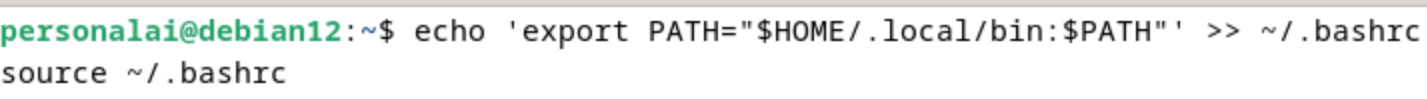
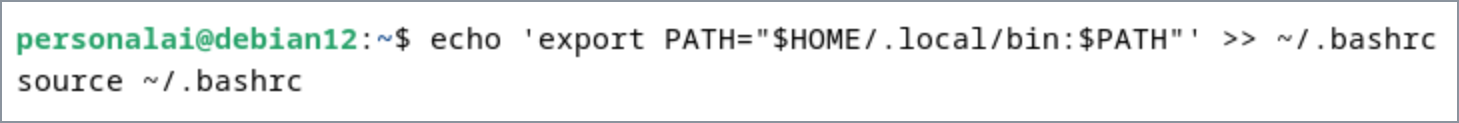
adjusted image sizes

Changed region(s): [[0.0, 0.0, 1.0, 1.0], [0.0, 0.5758, 0.2158, 0.8485]]

diff --git a/personal-ai-infrastructure/README.md b/personal-ai-infrastructure/README.md
@@ -13,7 +13,11 @@ This walkthrough covers:
 
 ## Environment
 
-![Debian 12 bookworm, confirmed via /etc/os-release](./images/System.png)
+<p align="center">
+  <img src="./images/System.png" alt="Debian 12 bookworm, confirmed via /etc/os-release" width="600">
+  <br>
+  <em>Debian 12 bookworm, confirmed via /etc/os-release</em>
+</p>
 
 Both environments run inside a Debian VM rather than directly on the host machine. The VM provides its own filesystem, users, and software environment.
 
@@ -65,7 +69,11 @@ Run:
 curl -fsSL https://claude.ai/install.sh | bash
 ```
 
-![Claude Code installation on Debian](./images/InstallClaude.png)
+<p align="center">
+  <img src="./images/InstallClaude.png" alt="Claude Code installation on Debian" width="700">
+  <br>
+  <em>Claude Code installation on Debian</em>
+</p>
 
 ### Fix the Bash PATH if needed
 
@@ -90,7 +98,11 @@ echo 'export PATH="$HOME/.local/bin:$PATH"' >> ~/.bashrc
 source ~/.bashrc
 ```
 
-![Adding ~/.local/bin to PATH so the claude command resolves](./images/Addpath.png)
+<p align="center">
+  <img src="./images/Addpath.png" alt="Adding ~/.local/bin to PATH so the claude command resolves" width="700">
+  <br>
+  <em>Adding ~/.local/bin to PATH so the claude command resolves</em>
+</p>
 
 Verify:
 
@@ -108,7 +120,11 @@ git clone https://github.com/danielmiessler/Personal_AI_Infrastructure.git
 cd Personal_AI_Infrastructure
 ```
 
-![Cloning the Personal AI Infrastructure repository](./images/DanielMieslerPAI.png)
+<p align="center">
+  <img src="./images/DanielMieslerPAI.png" alt="Cloning the Personal AI Infrastructure repository" width="700">
+  <br>
+  <em>Cloning the Personal AI Infrastructure repository</em>
+</p>
 
 The current repository may contain a newer release rather than the older `Releases/v4.0.3` directory.
 
@@ -143,9 +159,30 @@ cd ~/.claude
 bash install.sh
 ```
 
-![PAI v4.0.3 installer running on Debian](./images/PAI.png)
+<p align="center">
+  <img src="./images/PAI.png" alt="PAI v4.0.3 installer running on Debian" width="500">
+  <br>
+  <em>PAI v4.0.3 installer running on Debian</em>
+</p>
 
 Follow the installer prompts.
+
+### Bun runtime
+
+PAI's installer installs the [Bun](https://bun.sh) runtime automatically — you can see it happen in the installer output above (`Installing Bun runtime...`). Bun is what runs the `pai` launcher (`pai.ts`), so it needs to be present before you can launch PAI.
+
+Verify it's there:
+
+```bash
+bun --version
+```
+
+If it's missing, install it manually:
+
+```bash
+curl -fsSL https://bun.sh/install | bash
+source ~/.bashrc
+```
 
 ### Voice/audio note
 
@@ -167,7 +204,11 @@ If `~/.zshrc` does not exist, run:
 source ~/.bashrc
 ```
 
-![PAI installation completed successfully](./images/SuccessInstallPAI.png)
+<p align="center">
+  <img src="./images/SuccessInstallPAI.png" alt="PAI installation completed successfully" width="500">
+  <br>
+  <em>PAI installation completed successfully</em>
+</p>
 
 ## 6. Verify the PAI launcher
 
@@ -197,7 +238,11 @@ Then launch PAI:
 pai
 ```
 
-![PAI home page loaded successfully](./images/paiload.png)
+<p align="center">
+  <img src="./images/paiload.png" alt="PAI home page loaded successfully" width="550">
+  <br>
+  <em>PAI home page loaded successfully</em>
+</p>
 
 If the PAI interface loads, the PAI v4.0.3 environment is ready.
 
@@ -281,30 +326,7 @@ Verify:
 claude --version
 ```
 
-## 2. Check Bun
-
-Check whether Bun is available:
-
-```bash
-bun --version
-```
-
-If Bun is not installed:
-
-```bash
-curl -fsSL https://bun.sh/install | bash
-source ~/.bashrc
-```
-
-Verify:
-
-```bash
-bun --version
-```
-
-In this environment, LifeOS detected Bun during installation.
-
-## 3. Install LifeOS
+## 2. Install LifeOS
 
 Run the current LifeOS installer:
 
@@ -312,9 +334,13 @@ Run the current LifeOS installer:
 curl -fsSL https://ourlifeos.ai/install.sh | bash
 ```
 
-![LifeOS v7.40.4 installer starting](./images/InstallLifeOS.png)
+<p align="center">
+  <img src="./images/InstallLifeOS.png" alt="LifeOS v7.40.4 installer starting" width="700">
+  <br>
+  <em>LifeOS v7.40.4 installer starting</em>
+</p>
 
-During this installation, the installer detected the required prerequisites and installed the LifeOS skill under the current user's Claude environment:
+During this installation, the installer checked its prerequisites, including Bun, and installed the LifeOS skill under the current user’s Claude environment.:
 
 ```text
 ~/.claude/skills/LifeOS
@@ -330,7 +356,7 @@ cp -r .claude ~/
 
 PAI installation method for LifeOS v7.40.4.
 
-## 4. Trust the Workspace
+## 3. Trust the Workspace
 
 During setup, Claude Code may display:
 
@@ -344,7 +370,7 @@ Is this a project you created or one you trust?
 
 Only select **Yes** if you trust the project directory and are comfortable allowing Claude Code to read, edit, and execute files within it.
 
-## 5. Complete LifeOS Onboarding
+## 4. Complete LifeOS Onboarding
 
 LifeOS uses a conversational onboarding process rather than the older PAI `install.sh` workflow.
 
@@ -358,7 +384,11 @@ The setup may guide you through:
 
 Review proposed changes and permissions before approving them.
 
-![Claude Code running with the LifeOS environment](./images/ClaudeCodeLaunch.png)
+<p align="center">
+  <img src="./images/ClaudeCodeLaunch.png" alt="Claude Code running with the LifeOS environment" width="700">
+  <br>
+  <em>Claude Code running with the LifeOS environment</em>
+</p>
 
 At this point, the LifeOS environment is installed and ready for configuration.
 
@@ -393,13 +423,13 @@ Debian 12
 │
 ├── PAI user
 │    ├── Claude Code
+│    ├── Bun
 │    ├── ~/.claude
 │    └── PAI v4.0.3
 │         └── pai
 │
 └── LifeOS user
      ├── Claude Code
-     ├── Bun
      ├── ~/.claude
      └── LifeOS v7.40.4
           └── ~/.claude/skills/LifeOS
